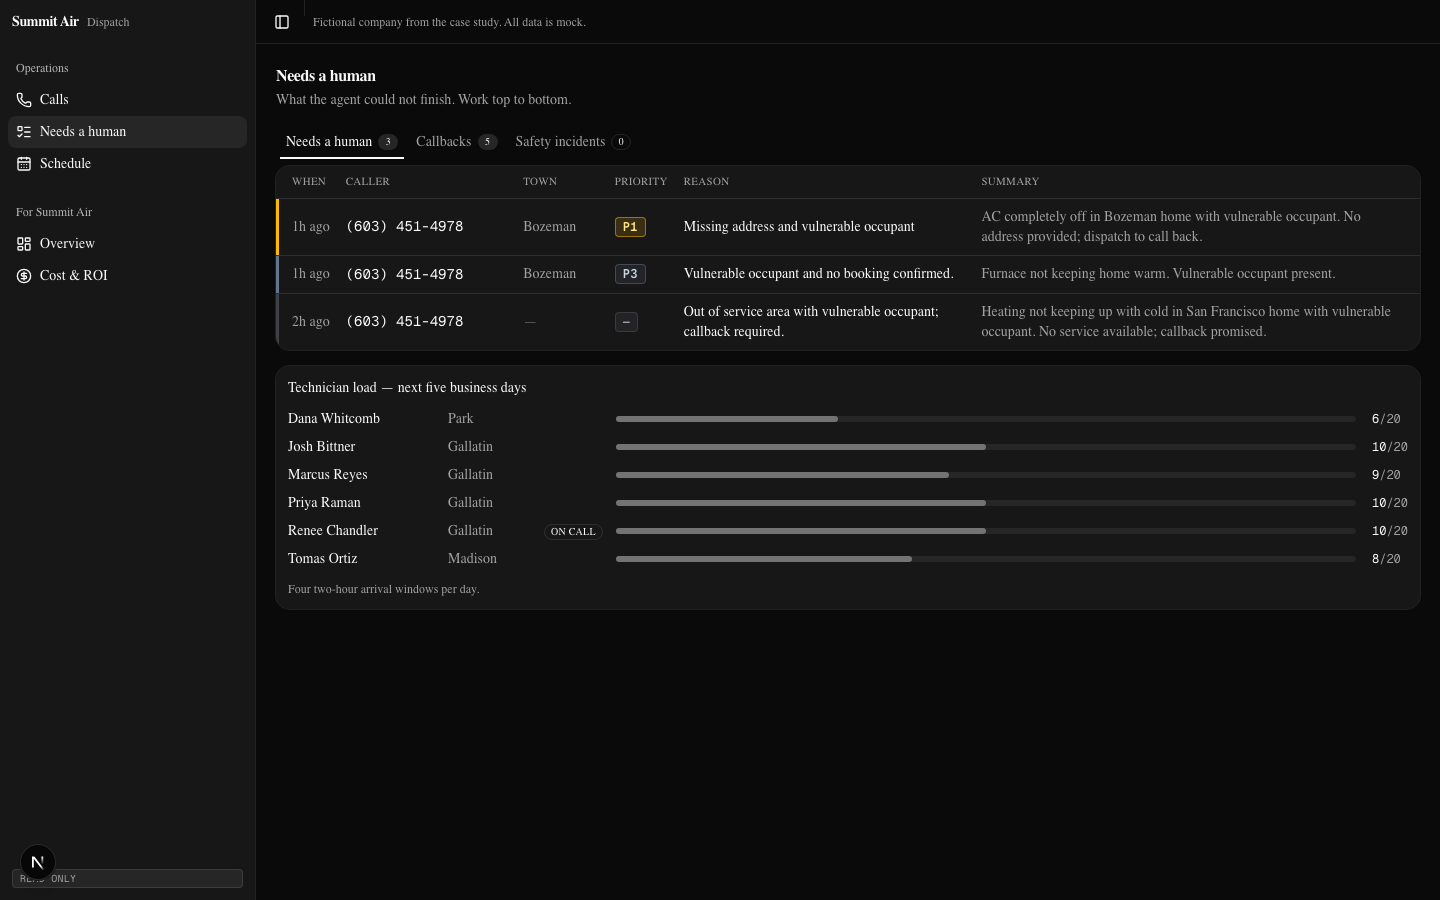
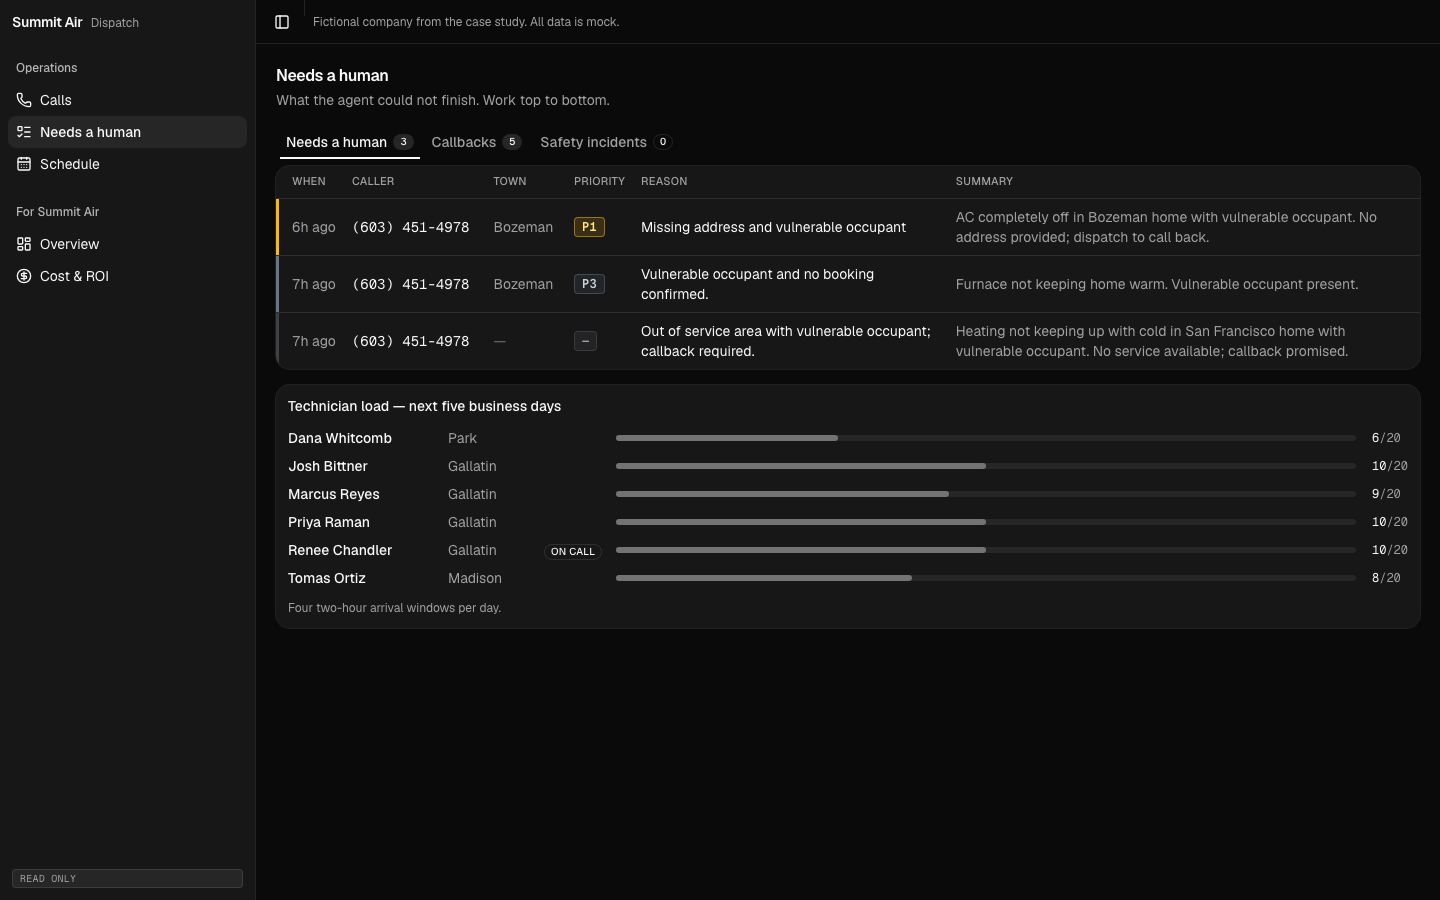
queue: consistency nits — utility classes, honest cells.tsx note, retake shot
- utilization.tsx: the bar fill was an inline style reading var(--chart-2)
  while every other colour on the page is a utility. It is now bg-chart-2,
  and the overbooked branch bg-destructive, both mapped in @theme.
- cells.tsx: the header claimed "all server components". Th re-exports
  TableHead from a client module and When needs the layout's
  TooltipProvider; the comment now says so.
- docs/screenshots/queue.png: retaken after merging main. The old shot was
  taken while --font-sans referenced itself and shows a serif fallback;
  Geist is back. Headless Chrome, 1440x900, production build, default tab.

diff --git a/app/(dash)/queue/cells.tsx b/app/(dash)/queue/cells.tsx
@@ -2,9 +2,12 @@
  * The small pieces the three queue tables share, so a change to how a
  * timestamp or an empty state looks lands in one place.
  *
- * All server components. The Tooltip primitives are client components under
- * the hood, but rendering them from here only ships their own JavaScript —
- * the table rows stay on the server.
+ * No "use client" here, but not everything below is a server component. `Th`
+ * is a re-export of TableHead from components/ui/table, a client module, so
+ * it carries that module's JavaScript. `When` renders a Radix Tooltip, which
+ * only works under the TooltipProvider that app/(dash)/layout.tsx mounts —
+ * used outside the dashboard layout it throws. The rows around them stay on
+ * the server.
  */
 import type { ReactNode } from "react";
 import { Card } from "@/components/ui/card";

diff --git a/app/(dash)/queue/utilization.tsx b/app/(dash)/queue/utilization.tsx
@@ -59,11 +59,8 @@ function TechRow({ tech }: { tech: TechUtilization }) {
         aria-valuenow={Math.min(tech.bookedWindows, tech.capacityWindows)}
       >
         <span
-          className="block h-full rounded"
-          style={{
-            width: `${pct}%`,
-            background: overbooked ? "var(--destructive)" : "var(--chart-2)",
-          }}
+          className={`block h-full rounded ${overbooked ? "bg-destructive" : "bg-chart-2"}`}
+          style={{ width: `${pct}%` }}
         />
       </span>
       <span className="font-mono text-xs tabular-nums text-muted-foreground">
